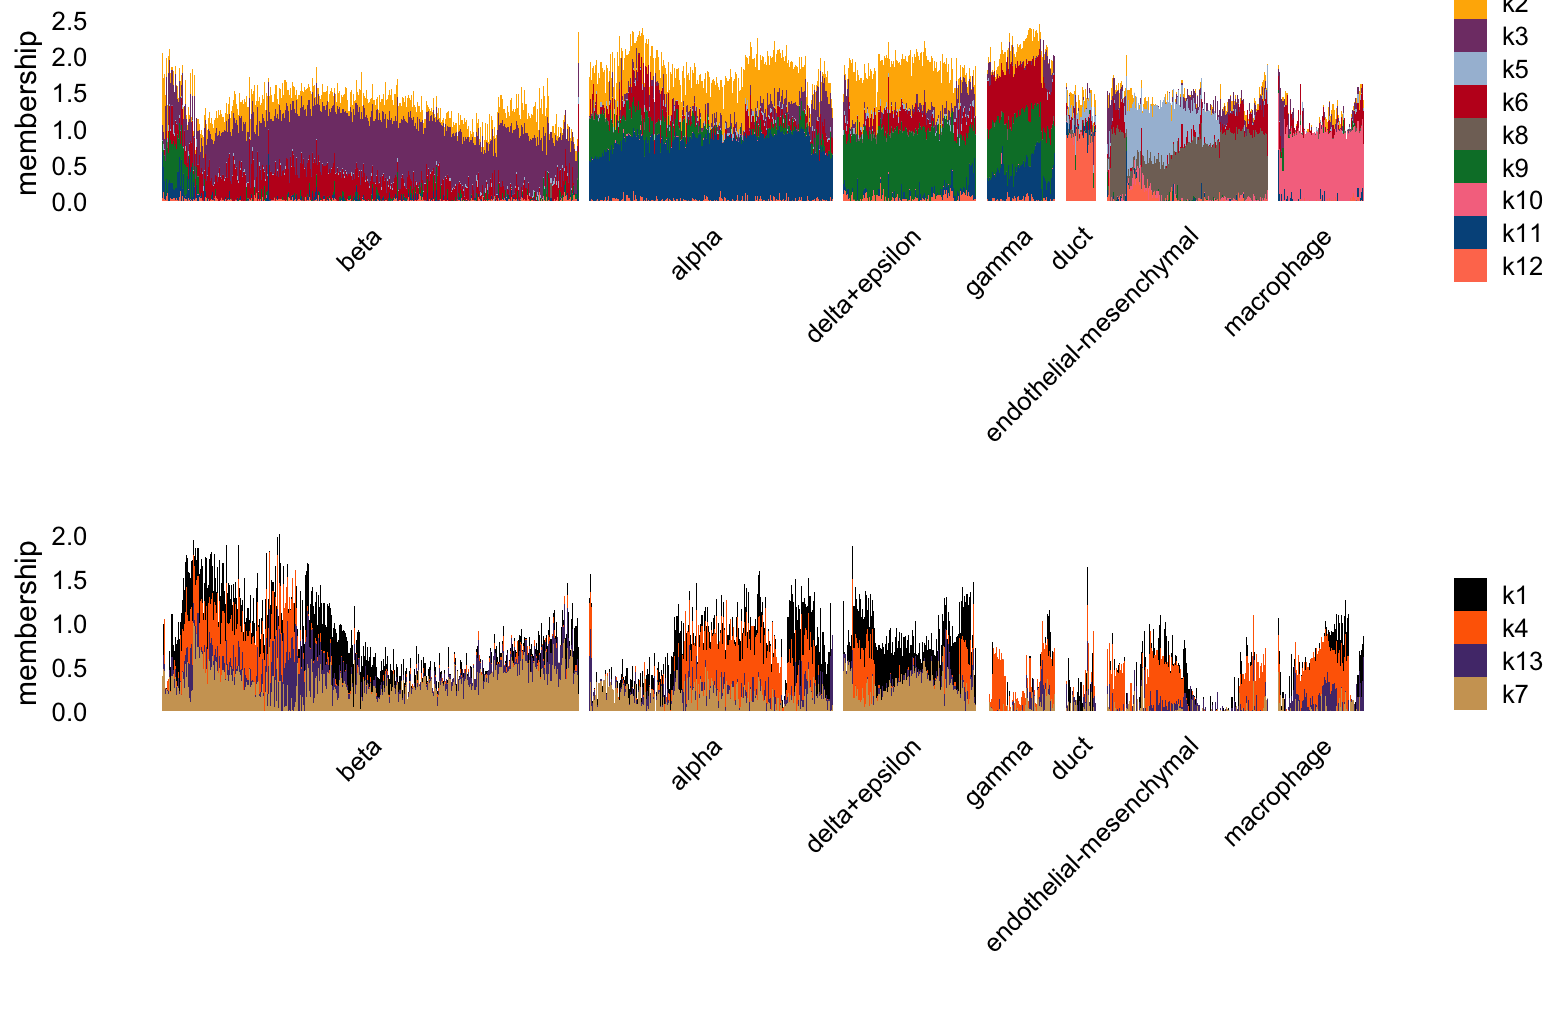
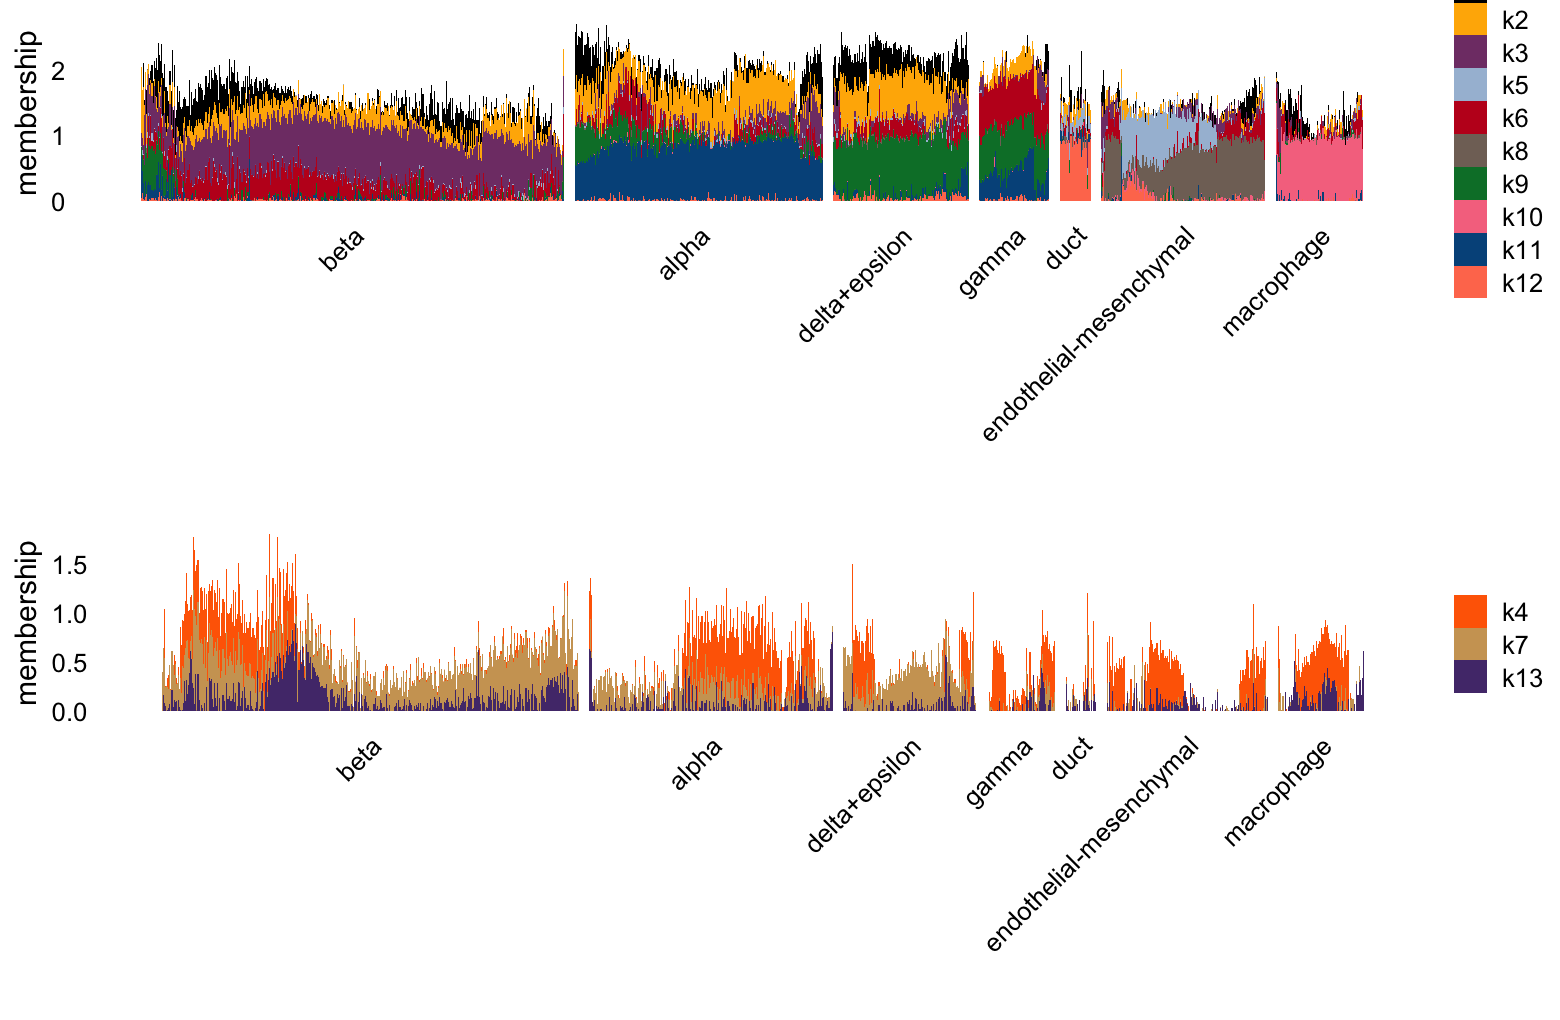
Added box plot to the pancreas_cytokine_s1 analysis.

diff --git a/docs/pancreas_cytokine_S1.html b/docs/pancreas_cytokine_S1.html
@@ -449,15 +449,15 @@ project makes it easier to run your code on other machines.</p>
 <div class="panel panel-default">
 <div class="panel-heading">
 <p class="panel-title">
-<a data-toggle="collapse" data-parent="#workflowr-checks" href="#strongRepositoryversionstrongahrefhttpsgithubcomeweinelog1pexperimentstreee280637055269466e11dcf301e35f43beb3a9ff6targetblanke280637a">
+<a data-toggle="collapse" data-parent="#workflowr-checks" href="#strongRepositoryversionstrongahrefhttpsgithubcomeweinelog1pexperimentstreed4c0540a59d2bdc7b7b7bd3763c103c9672edc51targetblankd4c0540a">
 <span class="glyphicon glyphicon-ok text-success"
 aria-hidden="true"></span> <strong>Repository version:</strong>
-<a href="https://github.com/eweine/log1p_experiments/tree/e280637055269466e11dcf301e35f43beb3a9ff6" target="_blank">e280637</a>
+<a href="https://github.com/eweine/log1p_experiments/tree/d4c0540a59d2bdc7b7b7bd3763c103c9672edc51" target="_blank">d4c0540</a>
 </a>
 </p>
 </div>
 <div
[2 lines of base64/hex data omitted]
 class="panel-collapse collapse">
 <div class="panel-body">
 <p>
@@ -467,7 +467,7 @@ reproducibility.
 </p>
 <p>
 The results in this page were generated with repository version
-<a href="https://github.com/eweine/log1p_experiments/tree/e280637055269466e11dcf301e35f43beb3a9ff6" target="_blank">e280637</a>.
+<a href="https://github.com/eweine/log1p_experiments/tree/d4c0540a59d2bdc7b7b7bd3763c103c9672edc51" target="_blank">d4c0540</a>.
 See the <em>Past versions</em> tab to see a history of the changes made
 to the R Markdown and HTML files.
 </p>
@@ -531,6 +531,57 @@ Message
 </tr>
 </thead>
 <tbody>
+<tr>
+<td>
+Rmd
+</td>
+<td>
+<a href="https://github.com/eweine/log1p_experiments/blob/d4c0540a59d2bdc7b7b7bd3763c103c9672edc51/analysis/pancreas_cytokine_S1.Rmd" target="_blank">d4c0540</a>
+</td>
+<td>
+Peter Carbonetto
+</td>
+<td>
+2025-06-22
+</td>
+<td>
+wflow_publish("analysis/pancreas_cytokine_S1.Rmd", view = F,
+</td>
+</tr>
+<tr>
+<td>
+Rmd
+</td>
+<td>
+<a href="https://github.com/eweine/log1p_experiments/blob/d1c5a8a5c3dd8c1f8aceba9db26f09c71be04fd9/analysis/pancreas_cytokine_S1.Rmd" target="_blank">d1c5a8a</a>
+</td>
+<td>
+Peter Carbonetto
+</td>
+<td>
+2025-06-22
+</td>
+<td>
+Small fix to the Structure plot.
+</td>
+</tr>
+<tr>
+<td>
+html
+</td>
+<td>
+<a href="https://rawcdn.githack.com/eweine/log1p_experiments/a4bfc7ec542227755c68bd9fb2ab79b2f88f3b6e/docs/pancreas_cytokine_S1.html" target="_blank">a4bfc7e</a>
+</td>
+<td>
+Peter Carbonetto
+</td>
+<td>
+2025-06-22
+</td>
+<td>
+Added Structure plot to visualize the log1p fit in the
+</td>
+</tr>
 <tr>
 <td>
 Rmd
@@ -710,6 +761,43 @@ p2 &lt;- structure_plot(L[i,],grouping = clusters[i],topics = other_topics,
   labs(fill = &quot;&quot;)
 plot_grid(p1,p2,nrow = 2,ncol = 1)</code></pre>
 <p><img src="figure/pancreas_cytokine_S1.Rmd/structure-plot-topic-model-1.png" width="780" style="display: block; margin: auto;" /></p>
+<p>
+<button type="button" class="btn btn-default btn-xs btn-workflowr btn-workflowr-fig" data-toggle="collapse" data-target="#fig-structure-plot-topic-model-1">
+Past versions of structure-plot-topic-model-1.png
+</button>
+</p>
+<div id="fig-structure-plot-topic-model-1" class="collapse">
+<div class="table-responsive">
+<table class="table table-condensed table-hover">
+<thead>
+<tr>
+<th>
+Version
+</th>
+<th>
+Author
+</th>
+<th>
+Date
+</th>
+</tr>
+</thead>
+<tbody>
+<tr>
+<td>
+<a href="https://github.com/eweine/log1p_experiments/blob/a4bfc7ec542227755c68bd9fb2ab79b2f88f3b6e/docs/figure/pancreas_cytokine_S1.Rmd/structure-plot-topic-model-1.png" target="_blank">a4bfc7e</a>
+</td>
+<td>
+Peter Carbonetto
+</td>
+<td>
+2025-06-22
+</td>
+</tr>
+</tbody>
+</table>
+</div>
+</div>
 </div>
 <div id="poisson-log1p-nmf-with-c-1" class="section level2">
 <h2>Poisson log1p NMF, with c = 1</h2>
@@ -742,8 +830,8 @@ remove this warning. See the
 clusters:</p>
 <pre class="r"><code>scale_cols &lt;- function (A, b)
   t(t(A) * b)
-celltype_topics &lt;- paste0(&quot;k&quot;,c(2:3,5:6,8:12))
-other_topics &lt;- paste0(&quot;k&quot;,c(1,4,13,7))
+celltype_topics &lt;- paste0(&quot;k&quot;,c(1:3,5:6,8:12))
+other_topics &lt;- paste0(&quot;k&quot;,c(4,7,13))
 set.seed(1)
 L &lt;- fit_log1p$LL
 d &lt;- apply(L,2,max)
@@ -761,6 +849,53 @@ p2 &lt;- structure_plot(L[i,],grouping = clusters[i],topics = other_topics,
   labs(y = &quot;membership&quot;,fill = &quot;&quot;)
 plot_grid(p1,p2,nrow = 2,ncol = 1)</code></pre>
 <p><img src="figure/pancreas_cytokine_S1.Rmd/structure-plot-log1p-nmf-1.png" width="780" style="display: block; margin: auto;" /></p>
+<p>
+<button type="button" class="btn btn-default btn-xs btn-workflowr btn-workflowr-fig" data-toggle="collapse" data-target="#fig-structure-plot-log1p-nmf-1">
+Past versions of structure-plot-log1p-nmf-1.png
+</button>
+</p>
+<div id="fig-structure-plot-log1p-nmf-1" class="collapse">
+<div class="table-responsive">
+<table class="table table-condensed table-hover">
+<thead>
+<tr>
+<th>
+Version
+</th>
+<th>
+Author
+</th>
+<th>
+Date
+</th>
+</tr>
+</thead>
+<tbody>
+<tr>
+<td>
+<a href="https://github.com/eweine/log1p_experiments/blob/a4bfc7ec542227755c68bd9fb2ab79b2f88f3b6e/docs/figure/pancreas_cytokine_S1.Rmd/structure-plot-log1p-nmf-1.png" target="_blank">a4bfc7e</a>
+</td>
+<td>
+Peter Carbonetto
+</td>
+<td>
+2025-06-22
+</td>
+</tr>
+</tbody>
+</table>
+</div>
+</div>
+<p>Factor 4 is clearly picking up systematic differences among the two
+replicates:</p>
+<pre class="r"><code>pdat &lt;- cbind(samples,L)
+ggplot(pdat,aes(x = replicate,y = k4)) +
+  geom_boxplot() +
+  theme_cowplot()</code></pre>
+<p><img src="figure/pancreas_cytokine_S1.Rmd/boxplot-replicate-1.png" width="240" style="display: block; margin: auto;" /></p>
+<p>(Topic 6 also picks up this same batch effect, however the
+correlation with the topic 6 proportion is not as strong as the factor 4
+membership.)</p>
 <br>
 <p>
 <button type="button" class="btn btn-default btn-workflowr btn-workflowr-sessioninfo" data-toggle="collapse" data-target="#workflowr-sessioninfo" style="display: block;">
